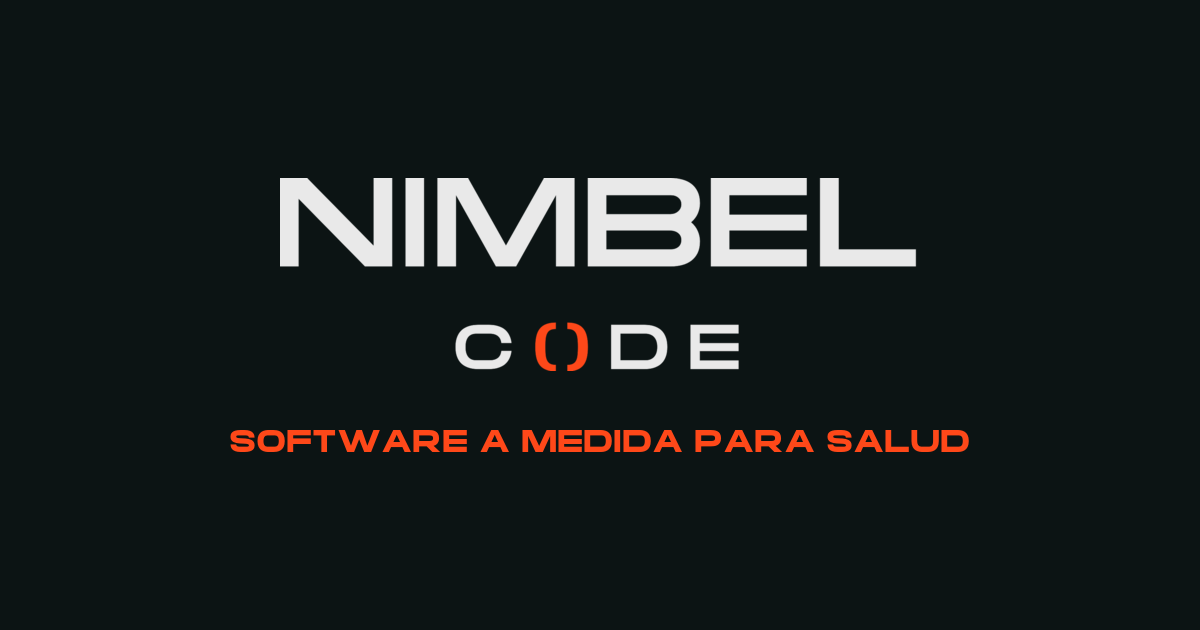
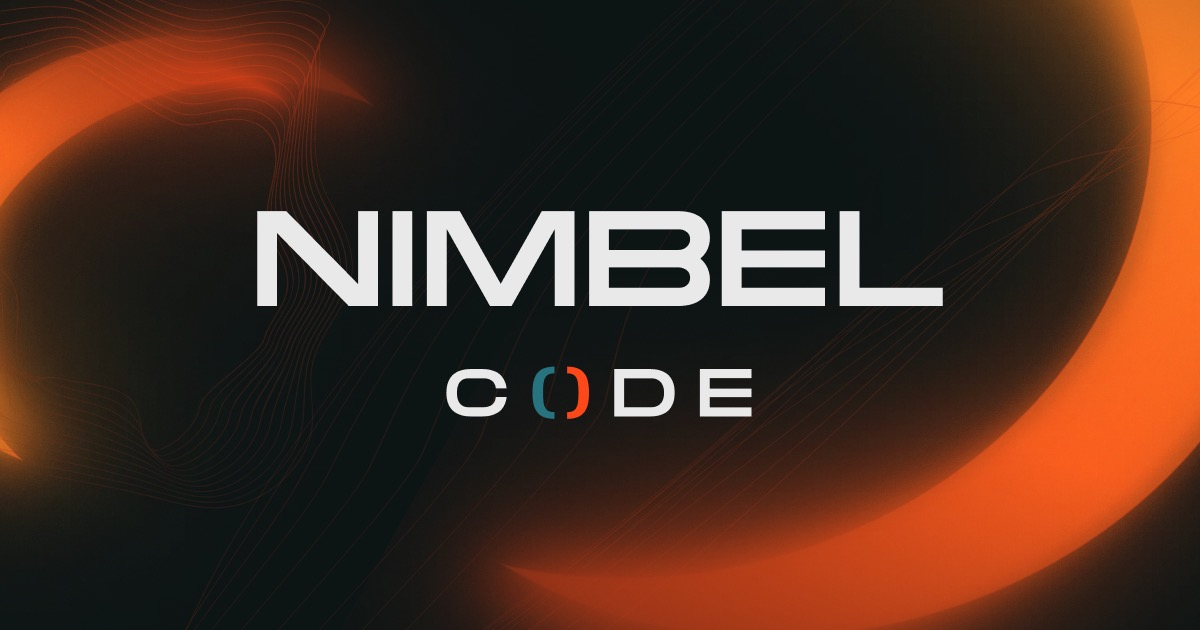
feat(seo): imagen nueva, ruta en Layout y registro en docs/seo

diff --git a/docs/seo/decisiones.md b/docs/seo/decisiones.md
@@ -2,6 +2,10 @@
 
 Registro cronológico, la más reciente arriba. Formato: `### AAAA-MM-DD — título`, qué se decidió y por qué.
 
+### 2026-11-16 — og-image definitiva, sin el tagline de salud
+**Qué**: `public/og-image.png` se sustituye por `public/og-image.jpg` (1200x630): logo de Nimbel Code sobre el fondo de la marca, sin texto. Sale de la página «Portadas redes» del Figma Plantillas RRSS. `Layout.astro` apunta a la nueva ruta en `og:image` y `twitter:image`. Sustituye a la og-image provisional del 2026-10-24.
+**Por qué**: "SOFTWARE A MEDIDA PARA SALUD" contradecía la web generalista y la ficha de Nimbel (salud no es el único foco). Va en JPG porque el fondo es un degradado: pesa unos 90 KB frente a más de 600 KB en PNG, y algunas redes y WhatsApp no muestran la vista previa si la imagen pesa demasiado. El cambio de URL también obliga a LinkedIn y al resto a no usar la imagen antigua que tengan en caché. Tarea M1 del plan de la web; diseño de Maribel.
+
 ### 2026-11-15 — Se quita Vercel Web Analytics
 **Qué**: se quita `webAnalytics: { enabled: true }` del adaptador de Vercel en `astro.config.mjs`. La web deja de cargar `/_vercel/insights/script.js`. La única analítica es Umami.
 **Por qué**: estaba activo sin que la política de privacidad lo mencionara, y con Umami se medían las mismas visitas dos veces. Decisión de Rubén.

diff --git a/docs/seo/backlog.md b/docs/seo/backlog.md
@@ -61,7 +61,7 @@ Las tareas hechas indican el commit donde se aplicaron.
 - [ ] Comprobar que OAI-SearchBot, Claude-SearchBot, PerplexityBot y Bingbot reciben 200 (`curl -A "OAI-SearchBot/1.0" -I https://www.nimbel.net/`) y que el firewall de Vercel no bloquea bots de IA
 - [x] Remotion: licencia gratuita confirmada por Rubén — 2026-11-10 (`decisiones.md`, 2026-11-07)
 - [ ] llms.txt: entra en el plan de Sol y Maribel (R6), con un enlace discreto en el pie y las mismas respuestas que ya da la web. Tiene que responder 200 (`decisiones.md`, 2026-11-11)
-- [ ] og-image: quitar "SOFTWARE A MEDIDA PARA SALUD" (contradice la web generalista); avisar a la diseñadora
+- [x] og-image: quitar "SOFTWARE A MEDIDA PARA SALUD" (contradice la web generalista) — hecho 2026-11-16 por Maribel (`decisiones.md`)
 
 ## Medición
 - [ ] Activar el informe Generative AI de Search Console y exportarlo cada mes
